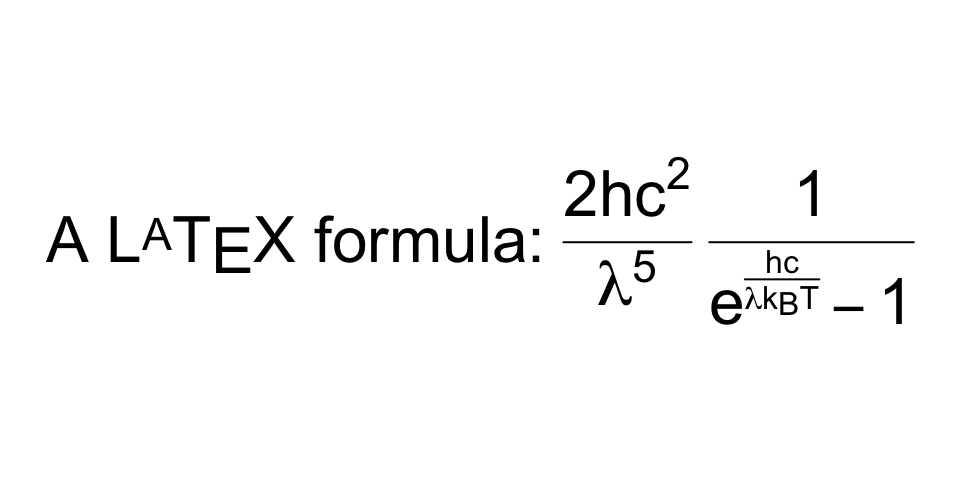
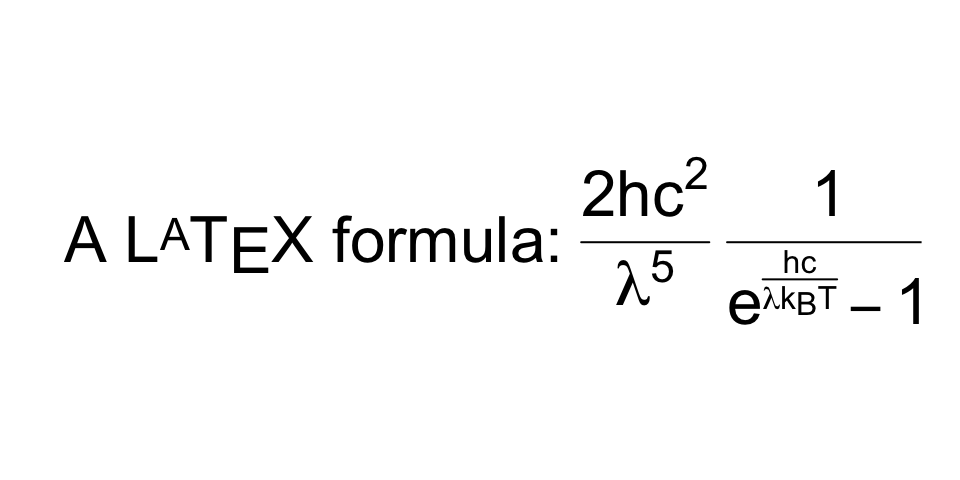
added stuff

diff --git a/docs/eda-ggplot.html b/docs/eda-ggplot.html
@@ -663,7 +663,7 @@ pre > code.sourceCode > span > a:first-child::before { text-decoration: underlin
   </div>
   
 
-</header><p><em>Version vom July 13, 2023 um 13:10:53</em></p>
+</header><p><em>Version vom July 13, 2023 um 15:35:26</em></p>
 <blockquote class="blockquote">
 <p><em>“(1) Alles was es schon gab, als Du geboren wurdest, ist normal und gewöhnlich. Diese Dinge werden als natürlich wahrgenommen und halten die Welt am Laufen. (2) Alles was zwischen Deinem 16ten und 36ten Lebensjahr erfunden wird ist neu, aufregend und revoltionär. Und vermutlich kannst Du in dem Bereich sogar Karriere machen. (3) Alles was nach dem 36ten Lebensjahr erfunden wird ist gegen die natürliche Ordnung der Dinge.” — Douglas Adams, Per Anhalter durch die Galaxis</em></p>
 </blockquote>
@@ -1438,8 +1438,11 @@ Histogramm, Boxplot, Scatterplot und Mosaicplot im Video
 </div>
 </div>
 <div class="cell" data-layout-align="center">
-<div class="sourceCode" id="cb28"><pre class="downlit sourceCode r code-with-copy"><code class="sourceCode R"><span><span class="fu"><a href="https://rdrr.io/r/graphics/plot.default.html">plot</a></span><span class="op">(</span><span class="fu">TeX</span><span class="op">(</span><span class="st">r"(A $\LaTeX$ formula: $\frac{2hc^2}{\lambda^5}\frac{1}{e^{\frac{hc}{\lambda k_B T}} - 1}$)"</span><span class="op">)</span>,</span>
-<span>     cex <span class="op">=</span> <span class="fl">2</span>, main <span class="op">=</span> <span class="st">""</span><span class="op">)</span></span></code><button title="In die Zwischenablage kopieren" class="code-copy-button"><i class="bi"></i></button></pre></div>
+<div class="sourceCode" id="cb28"><pre class="downlit sourceCode r code-with-copy"><code class="sourceCode R"><span><span class="fu"><a href="https://rdrr.io/r/graphics/plot.default.html">plot</a></span><span class="op">(</span>cex <span class="op">=</span> <span class="fl">2</span>, main <span class="op">=</span> <span class="st">""</span>,</span>
+<span>  <span class="fu">TeX</span><span class="op">(</span><span class="st">r"(</span></span>
+<span><span class="st">         A $\LaTeX$ formula: $\frac{2hc^2}{\lambda^5}\frac{1}{e^{\frac{hc}{\lambda k_B T}} - 1}$</span></span>
+<span><span class="st">      )"</span><span class="op">)</span></span>
+<span>  <span class="op">)</span></span></code><button title="In die Zwischenablage kopieren" class="code-copy-button"><i class="bi"></i></button></pre></div>
 <div class="cell-output-display">
 <div class="quarto-figure quarto-figure-center">
 <figure class="figure"><p><img src="eda-ggplot_files/figure-html/unnamed-chunk-32-1.png" class="img-fluid figure-img" width="480"></p>
